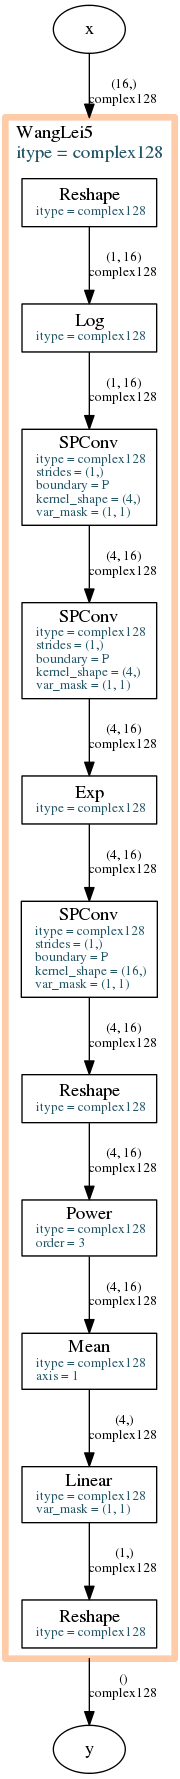
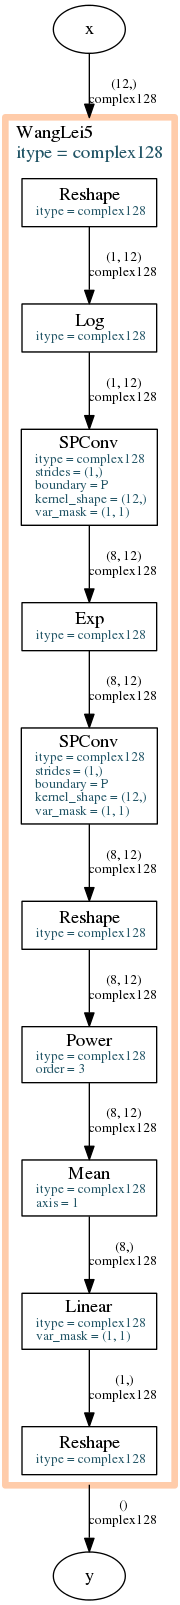
update benchmark 1d12p

Changed region(s): [[0.0, 0.0, 1.0, 1.0]]

diff --git a/models/wanglei5.py b/models/wanglei5.py
@@ -27,10 +27,9 @@ class WangLei5(StateNN):
         :version: ['linear'|'conv'|'const-linear'],
         :stride: int, stride step in convolusion layers.
     '''
-    def __init__(self, input_shape, K=2, num_features=[4,4,4], eta0=0.2, eta1=0.2,
-            itype='complex128',version='linear', dtype0='complex128', dtype1='complex128', stride=None):
+    def __init__(self, input_shape, K=2, num_features=[4,4,4], eta0=0.2, eta1=0.2, NP=1, NC=1,
+            itype='complex128',version='linear', dtype0='complex128', dtype1='complex128', stride=None, usesum=False):
         self.num_features, self.itype = num_features, itype
-        NP, NC = 2, 1
         if stride is None:
             if any([n%4!=0 for n in input_shape]):
                 stride=2
@@ -43,6 +42,7 @@ class WangLei5(StateNN):
         D = len(input_shape)
         ishape = (1,)+input_shape
         self.layers.append(functions.Reshape(input_shape, itype=itype, output_shape=ishape))
+        imgsize = self.layers[-1].output_shape[-D:]
 
         # product layers.
         dtype = dtype0
@@ -51,6 +51,7 @@ class WangLei5(StateNN):
         for nfi, nfo in zip([1]+num_features[:NP-1], num_features[:NP]):
             self.add_layer(SPConv, weight=eta*typed_randn(dtype, (nfo, nfi)+(K,)*D),
                     bias=eta*typed_randn(dtype, (nfo,)), boundary='P', strides=(stride,)*D)
+            imgsize = self.layers[-1].output_shape[-D:]
         self.add_layer(functions.Exp)
 
         # convolution layers.
@@ -58,20 +59,23 @@ class WangLei5(StateNN):
         dtype = dtype1
         stride = 1
         for nfi, nfo in zip(num_features[NP-1:NP+NC-1], num_features[NP:NP+NC]):
-            imgsize = self.layers[-1].output_shape[-D:]
             self.add_layer(SPConv, weight=eta*typed_randn(dtype, (nfo, nfi)+imgsize),
                     bias=eta*typed_randn(dtype, (nfo,)), boundary='P', strides=(stride,)*D)
-        self.add_layer(functions.Reshape, output_shape=(num_features[0], np.prod(imgsize)//stride**D))
+            imgsize = self.layers[-1].output_shape[-D:]
+        self.add_layer(functions.Reshape, output_shape=(nfo,np.prod(imgsize)//stride**D))
 
         # non-linear function
         self.add_layer(functions.Power,order=3)
         self.add_layer(functions.Mean, axis=-1)
 
         # linear layers.
-        for i,(nfi, nfo) in enumerate(zip(num_features[NP+NC-1:], num_features[NP+NC:]+[1])):
-            if i!=0:
-                self.add_layer(functions.Log2cosh)
-            self.add_layer(Linear, weight=eta*typed_randn(dtype, (nfo, nfi)),
-                    bias=eta*typed_randn(dtype, (nfo,)),var_mask=(1,1))
-        self.add_layer(functions.Reshape, output_shape=())
+        if usesum:
+            self.add_layer(functions.Sum, axis=-1)
+        else:
+            for i,(nfi, nfo) in enumerate(zip(num_features[NP+NC-1:], num_features[NP+NC:]+[1])):
+                if i!=0:
+                    self.add_layer(functions.Log2cosh)
+                self.add_layer(Linear, weight=eta*typed_randn(dtype, (nfo, nfi)),
+                        bias=eta*typed_randn(dtype, (nfo,)),var_mask=(1,1))
+            self.add_layer(functions.Reshape, output_shape=())
 

diff --git a/models/wanglei3.py b/models/wanglei3.py
@@ -21,7 +21,7 @@ class WangLei3(StateNN):
         :num_feature_hidden: int, number features in hidden layer.
     '''
     def __init__(self, input_shape, itype, powerlist, num_features=[12],\
-            version='conv', stride=1, eta=0.2):
+            version='conv', stride=1, eta=0.2, usesum=False):
         self.num_features, self.itype = num_features, itype
         nsite=np.prod(input_shape)
         super(WangLei3, self).__init__(itype, do_shape_check=False)
@@ -54,11 +54,14 @@ class WangLei3(StateNN):
             self.add_layer(Linear, weight=np.array([[-1,-1,1,1]],dtype=itype, order='F'),
                     bias=np.zeros((1,),dtype=itype),var_mask=(0,0))
         elif version=='linear' or version=='conv':
-            for i,(nfi, nfo) in enumerate(zip(num_features, num_features[1:]+[1])):
-                if i!=0:
-                    self.add_layer(functions.ReLU)
-                self.add_layer(Linear, weight=eta*typed_randn(self.itype, (nfo, nfi)),
-                        bias=eta*typed_randn(self.itype, (nfo,)),var_mask=(1,1))
+            if usesum:
+                self.add_layer(functions.Sum, axis=-1)
+            else:
+                for i,(nfi, nfo) in enumerate(zip(num_features, num_features[1:]+[1])):
+                    if i!=0:
+                        self.add_layer(functions.ReLU)
+                    self.add_layer(Linear, weight=eta*typed_randn(self.itype, (nfo, nfi)),
+                            bias=eta*typed_randn(self.itype, (nfo,)),var_mask=(1,1))
         elif version=='rbm':
             pass
         else:

diff --git a/benchmarks/wanglei5/config.py b/benchmarks/wanglei5/config.py
@@ -1,16 +1,18 @@
 from models.wanglei5 import WangLei5
 
 num_features_list = [
-        [2,2,1],
-        [2,2,2],
-        [4,2,4],
-        [4,4,4],
-        [4,4,4,128],
-        [4,4,4,128,16],
-        [4,4,4,128],
+        [1,128],
+        [8],
+        [2],
+        [8,8],
+        [2,2],
+        [2,1],
         ]
 
+NP_list = [1,1,1,1,1,1]
+NC_list = [0,0,0,1,1,1]
+
 def modifyconfig_and_getnn(config, bench_id):
-    rbm = WangLei5(input_shape=tuple(config['hamiltonian']['size']), num_features=num_features_list[bench_id],
-            version='conv', itype='complex128', stride=1,K=4 if bench_id<6 else 8)
+    rbm = WangLei5(input_shape=tuple(config['hamiltonian']['size']), num_features=num_features_list[bench_id],NP=NP_list[bench_id],NC=NC_list[bench_id],
+            version='conv', itype='complex128', stride=1,K=config['hamiltonian']['size'][0], dtype0='complex128', dtype1='complex128', eta0=0.2, eta1=0.2)
     return rbm

diff --git a/benchmarks/1d12p/config.py b/benchmarks/1d12p/config.py
@@ -8,9 +8,11 @@ powerlist_list = [
         [[1],[1,1]],
         [[1],[1,1],[1,0,1]],
         [[1],[1,1],[1,0,1],[1,1,1]],
+        [[1],[1,0,1]],
+        [[1],[1,1],[1,0,1]],
         ]
 
 def modifyconfig_and_getnn(config, bench_id):
     rbm = WangLei3(input_shape=tuple(config['hamiltonian']['size']), num_features=[4],
-            version='conv', itype='complex128', powerlist=powerlist_list[bench_id], stride=1)
+            version='conv', itype='complex128', powerlist=powerlist_list[bench_id], stride=1, usesum=False if bench_id<8 else True)
     return rbm
